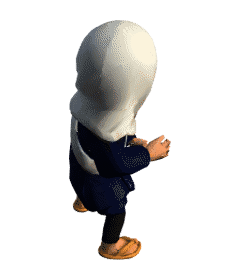
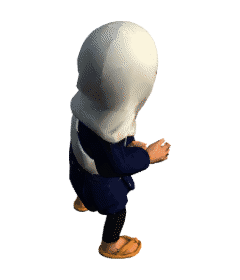
控え欄の兵の絵を待機アニメの 0 秒目の姿勢で描く
素の姿勢は T 字なので、iconFromGltf で待機アニメの 0 秒目を骨に当ててから撮る。
構図（外接箱・カメラ）は変えていない。盤上の描画経路には触れていない。
tools/guide-icons.mjs も 0.4 秒目から 0 秒目に揃え、ガイドの兵の絵10枚と、
控え欄が写るルールの写真2枚（降した直後・追い詰める直前）を撮り直した。

Claude-Session: https://claude.ai/code/session_013nKbqTkPJMSRT9nEeyhNhc

diff --git a/play3d.html b/play3d.html
@@ -532,13 +532,16 @@ function makePool(gltf, size){
   }
   return pool;
 }
-/* 骨付き gltf から持ち駒アイコンを1枚作る（自軍＝青。盤上と同じ奥向きで撮る）。 */
+/* 骨付き gltf から持ち駒アイコンを1枚作る（自軍＝青。盤上と同じ奥向きで撮る）。
+   素の姿勢は T 字なので、待機アニメの 0 秒目を骨に当ててから撮る。 */
 function iconFromGltf(gltf){
   const clone = THREE.SkeletonUtils.clone(gltf.scene);
   clone.traverse(o => { if (o.isSkinnedMesh){ o.material = lambertFrom(o.material, true); o.frustumCulled = false; } });
+  const mixer = new THREE.AnimationMixer(clone);
+  mixer.clipAction(gltf.animations[0]).play(); mixer.update(0);
   return `url("${makeSoldierIconFromObject(clone)}")`;
 }
-/* 骨付きモデルからも持ち駒アイコンを作る。1 体を安置ポーズのまま正面から撮る。 */
+/* 骨付きモデルからも持ち駒アイコンを作る。1 体を渡された姿勢のまま正面から撮る。 */
 function makeSoldierIconFromObject(obj){
   const W = 128, H = 160, r = getIconRenderer();
   const sc = new THREE.Scene();
